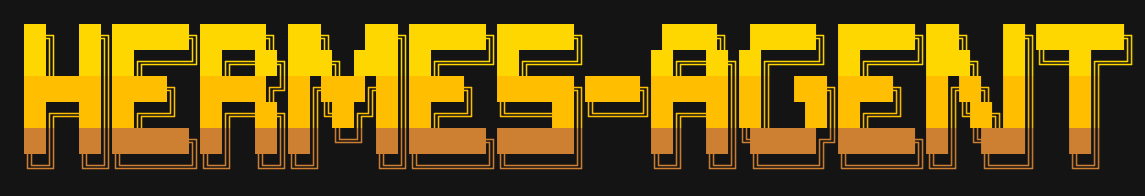
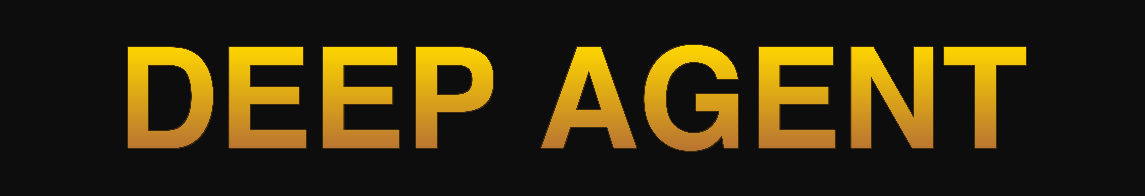
docs(readme): replace Hermes branding with Deep Agent + update Homebrew SHA256
- 将 banner.png 从 HERMES-AGENT 替换为 DEEP AGENT

- README 删除跳转到 Hermes Agent 文档的 Documentation 徽章

- README 将 "基于 Hermes Web UI" 改为 "DeepAgent 定制版"

- Homebrew Formula SHA256 更新为 v0.9.0-alpha.1 tarball 真实校验值

diff --git a/scripts/homebrew/deepagent.rb b/scripts/homebrew/deepagent.rb
@@ -20,7 +20,7 @@ class Deepagent < Formula
   homepage "https://deepseekagent.starseas.org"
   url "https://deepseekagent.starseas.org/releases/deepagent-0.9.0-alpha.1.tar.gz"
   mirror "https://github.com/yuanchenglu/deepseekagent/releases/download/v0.9.0-alpha.1/deepagent-0.9.0-alpha.1.tar.gz"
-  sha256 "PLACEHOLDER_SHA256_WILL_BE_FILLED_DURING_RELEASE"
[1 lines of base64/hex data omitted]
   license "MIT"
   version "0.9.0-alpha.1"
 

diff --git a/README.md b/README.md
@@ -5,7 +5,6 @@
 # Deep Agent ☤
 
 <p align="center">
-  <a href="https://hermes-agent.nousresearch.com/docs/"><img src="https://img.shields.io/badge/Docs-deepagent.starseas.org-FFD700?style=for-the-badge" alt="Documentation"></a>
   <a href="https://github.com/yuanchenglu/deepseekagent/blob/main/LICENSE"><img src="https://img.shields.io/badge/License-MIT-green?style=for-the-badge" alt="License: MIT"></a>
 </p>
 
@@ -124,7 +123,7 @@ deepagent
 
 ## 项目结构亮点（开发中）
 
-- `webui/` — 默认 Web 工作台（基于 Hermes Web UI）
+- `webui/` — 默认 Web 工作台（DeepAgent 定制版）
 - `embedded/` — 内置、隔离的研发小组（OpenCode 等）
 - `deepagent_code_mode/` — Code 模式核心（dispatcher + session）
 - `scripts/brand-replace.py` — 品牌清理工具
